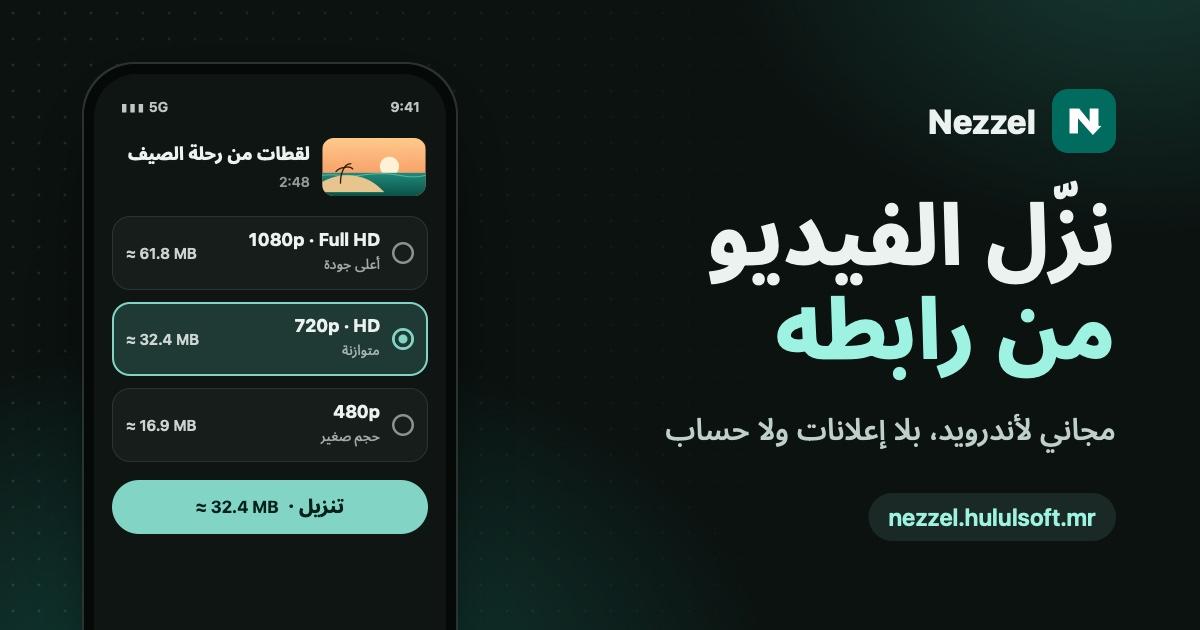
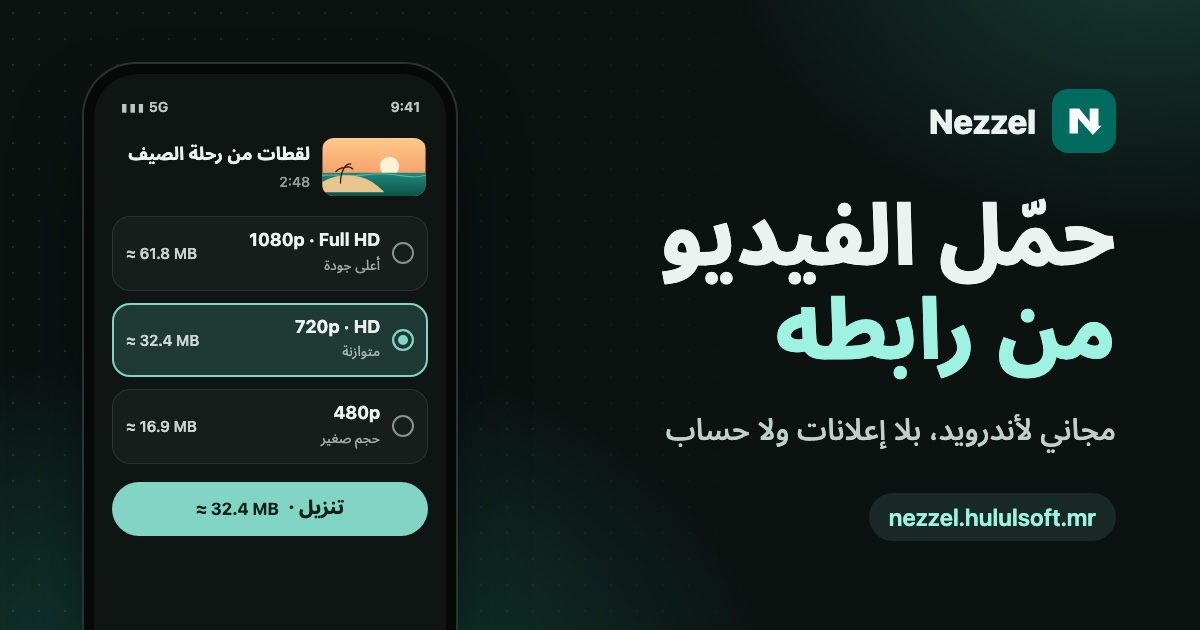
site: link preview says حمّل

diff --git a/site/index.html b/site/index.html
@@ -19,7 +19,7 @@
 <meta property="og:url" content="https://nezzel.hululsoft.mr/">
 <meta property="og:title" content="Nezzel · حمّل الفيديو من رابطه">
 <meta property="og:description" content="احفظ الفيديو والصوت والصور من الروابط العامة، بلا إعلانات ولا حساب">
-<meta property="og:image" content="https://nezzel.hululsoft.mr/img/og.jpg">
+<meta property="og:image" content="https://nezzel.hululsoft.mr/img/og.jpg?v=2">
 <meta property="og:image:type" content="image/jpeg">
 <meta property="og:image:width" content="1200">
 <meta property="og:image:height" content="630">
@@ -45,7 +45,7 @@
   }
 })();
 </script>
-<script type="application/ld+json">{"@context":"https://schema.org","@type":"SoftwareApplication","name":"Nezzel","description":"احفظ الفيديو والصوت والصور من الروابط العامة، بلا إعلانات ولا حساب","url":"https://nezzel.hululsoft.mr/","image":"https://nezzel.hululsoft.mr/img/og.jpg","operatingSystem":"Android 10+","applicationCategory":"MultimediaApplication","inLanguage":"ar","license":"https://www.gnu.org/licenses/gpl-3.0.html","isAccessibleForFree":true,"offers":{"@type":"Offer","price":"0","priceCurrency":"USD"},"downloadUrl":"https://github.com/ahmed-abdat/nezzel/releases/latest","publisher":{"@type":"Organization","name":"Hululsoft","url":"https://hululsoft.mr"}}</script>
+<script type="application/ld+json">{"@context":"https://schema.org","@type":"SoftwareApplication","name":"Nezzel","description":"احفظ الفيديو والصوت والصور من الروابط العامة، بلا إعلانات ولا حساب","url":"https://nezzel.hululsoft.mr/","image":"https://nezzel.hululsoft.mr/img/og.jpg?v=2","operatingSystem":"Android 10+","applicationCategory":"MultimediaApplication","inLanguage":"ar","license":"https://www.gnu.org/licenses/gpl-3.0.html","isAccessibleForFree":true,"offers":{"@type":"Offer","price":"0","priceCurrency":"USD"},"downloadUrl":"https://github.com/ahmed-abdat/nezzel/releases/latest","publisher":{"@type":"Organization","name":"Hululsoft","url":"https://hululsoft.mr"}}</script>
 <script>try{const t=localStorage.getItem("nezzel-theme");if(t==="light"||t==="dark")document.documentElement.dataset.theme=t}catch(e){}</script>
 <link rel="icon" href="/img/icon.svg" type="image/svg+xml">
 <noscript><style>[data-r]{opacity:1;transform:none;filter:none}.theme,.steps-nav{display:none}.mini{display:none}</style></noscript>

diff --git a/site/fr/index.html b/site/fr/index.html
@@ -20,7 +20,7 @@
 <meta property="og:url" content="https://nezzel.hululsoft.mr/fr/">
 <meta property="og:title" content="Nezzel · Enregistrez la vidéo depuis son lien">
 <meta property="og:description" content="Enregistrez vidéos, sons et photos depuis des liens publics. Sans publicité ni compte">
-<meta property="og:image" content="https://nezzel.hululsoft.mr/img/og.jpg">
+<meta property="og:image" content="https://nezzel.hululsoft.mr/img/og.jpg?v=2">
 <meta property="og:image:type" content="image/jpeg">
 <meta property="og:image:width" content="1200">
 <meta property="og:image:height" content="630">
@@ -46,7 +46,7 @@
   }
 })();
 </script>
-<script type="application/ld+json">{"@context":"https://schema.org","@type":"SoftwareApplication","name":"Nezzel","description":"Enregistrez vidéos, sons et photos depuis des liens publics. Sans publicité ni compte","url":"https://nezzel.hululsoft.mr/fr/","image":"https://nezzel.hululsoft.mr/img/og.jpg","operatingSystem":"Android 10+","applicationCategory":"MultimediaApplication","inLanguage":"fr","license":"https://www.gnu.org/licenses/gpl-3.0.html","isAccessibleForFree":true,"offers":{"@type":"Offer","price":"0","priceCurrency":"USD"},"downloadUrl":"https://github.com/ahmed-abdat/nezzel/releases/latest","publisher":{"@type":"Organization","name":"Hululsoft","url":"https://hululsoft.mr"}}</script>
+<script type="application/ld+json">{"@context":"https://schema.org","@type":"SoftwareApplication","name":"Nezzel","description":"Enregistrez vidéos, sons et photos depuis des liens publics. Sans publicité ni compte","url":"https://nezzel.hululsoft.mr/fr/","image":"https://nezzel.hululsoft.mr/img/og.jpg?v=2","operatingSystem":"Android 10+","applicationCategory":"MultimediaApplication","inLanguage":"fr","license":"https://www.gnu.org/licenses/gpl-3.0.html","isAccessibleForFree":true,"offers":{"@type":"Offer","price":"0","priceCurrency":"USD"},"downloadUrl":"https://github.com/ahmed-abdat/nezzel/releases/latest","publisher":{"@type":"Organization","name":"Hululsoft","url":"https://hululsoft.mr"}}</script>
 <script>try{const t=localStorage.getItem("nezzel-theme");if(t==="light"||t==="dark")document.documentElement.dataset.theme=t}catch(e){}</script>
 <link rel="icon" href="/img/icon.svg" type="image/svg+xml">
 <noscript><style>[data-r]{opacity:1;transform:none;filter:none}.theme,.steps-nav{display:none}.mini{display:none}</style></noscript>

diff --git a/site/en/index.html b/site/en/index.html
@@ -20,7 +20,7 @@
 <meta property="og:url" content="https://nezzel.hululsoft.mr/en/">
 <meta property="og:title" content="Nezzel · Save the video from its link">
 <meta property="og:description" content="Save videos, audio and photos from public links. No ads, no account">
-<meta property="og:image" content="https://nezzel.hululsoft.mr/img/og.jpg">
+<meta property="og:image" content="https://nezzel.hululsoft.mr/img/og.jpg?v=2">
 <meta property="og:image:type" content="image/jpeg">
 <meta property="og:image:width" content="1200">
 <meta property="og:image:height" content="630">
@@ -46,7 +46,7 @@
   }
 })();
 </script>
-<script type="application/ld+json">{"@context":"https://schema.org","@type":"SoftwareApplication","name":"Nezzel","description":"Save videos, audio and photos from public links. No ads, no account","url":"https://nezzel.hululsoft.mr/en/","image":"https://nezzel.hululsoft.mr/img/og.jpg","operatingSystem":"Android 10+","applicationCategory":"MultimediaApplication","inLanguage":"en","license":"https://www.gnu.org/licenses/gpl-3.0.html","isAccessibleForFree":true,"offers":{"@type":"Offer","price":"0","priceCurrency":"USD"},"downloadUrl":"https://github.com/ahmed-abdat/nezzel/releases/latest","publisher":{"@type":"Organization","name":"Hululsoft","url":"https://hululsoft.mr"}}</script>
+<script type="application/ld+json">{"@context":"https://schema.org","@type":"SoftwareApplication","name":"Nezzel","description":"Save videos, audio and photos from public links. No ads, no account","url":"https://nezzel.hululsoft.mr/en/","image":"https://nezzel.hululsoft.mr/img/og.jpg?v=2","operatingSystem":"Android 10+","applicationCategory":"MultimediaApplication","inLanguage":"en","license":"https://www.gnu.org/licenses/gpl-3.0.html","isAccessibleForFree":true,"offers":{"@type":"Offer","price":"0","priceCurrency":"USD"},"downloadUrl":"https://github.com/ahmed-abdat/nezzel/releases/latest","publisher":{"@type":"Organization","name":"Hululsoft","url":"https://hululsoft.mr"}}</script>
 <script>try{const t=localStorage.getItem("nezzel-theme");if(t==="light"||t==="dark")document.documentElement.dataset.theme=t}catch(e){}</script>
 <link rel="icon" href="/img/icon.svg" type="image/svg+xml">
 <noscript><style>[data-r]{opacity:1;transform:none;filter:none}.theme,.steps-nav{display:none}.mini{display:none}</style></noscript>
